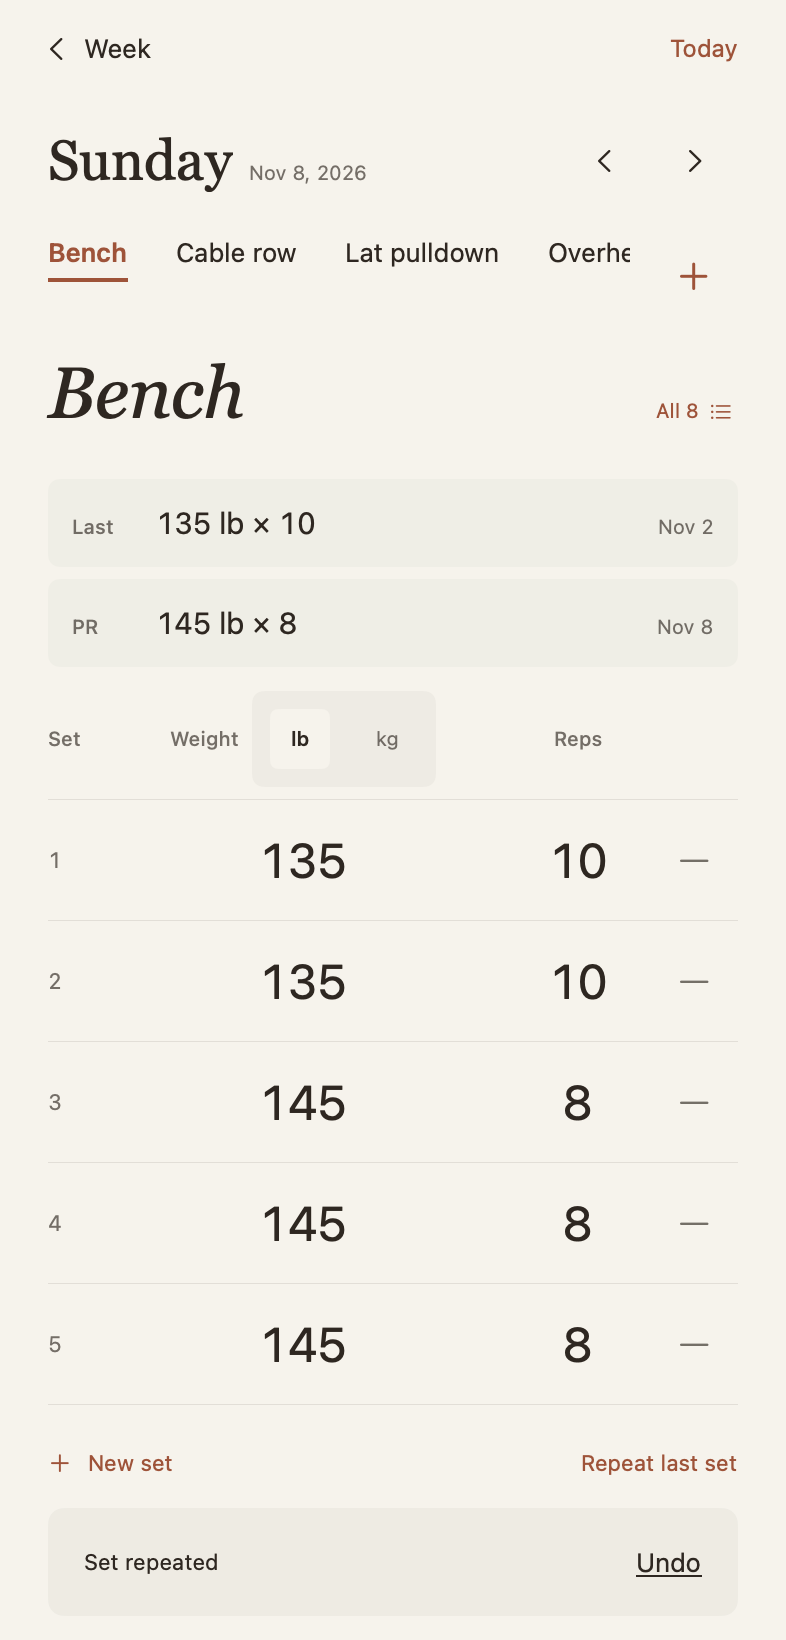
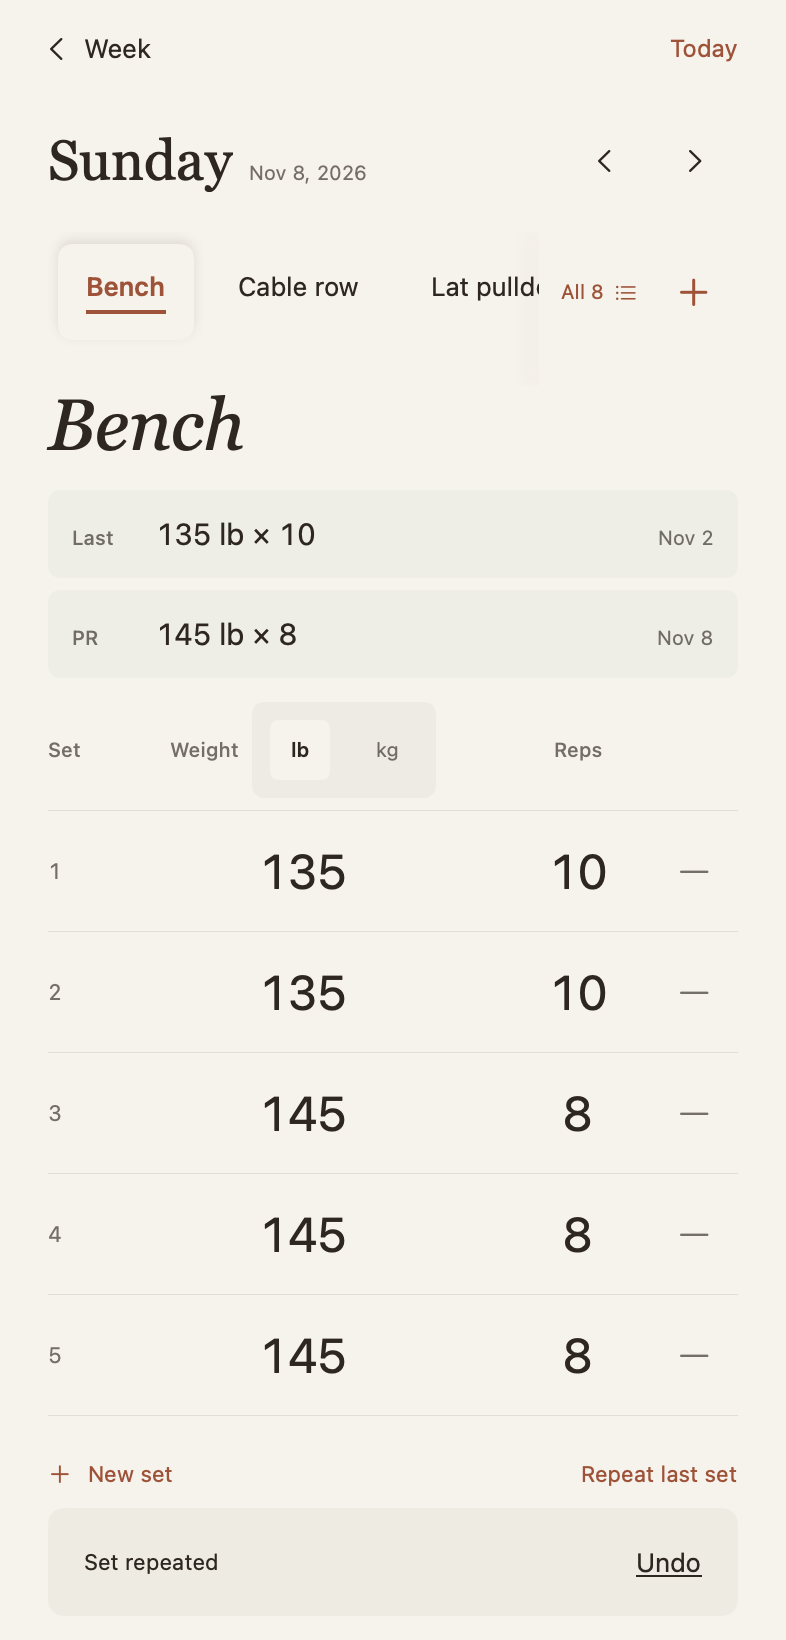
Refine exercise tabs with larger targets and overflow shadows

diff --git a/Sources/SendaNotebook/TrainingExerciseTabs.swift b/Sources/SendaNotebook/TrainingExerciseTabs.swift
@@ -1,0 +1,110 @@
+import SwiftUI
+import SendaDomain
+import SendaLogger
+
+struct TrainingExerciseTabs: View {
+    @Bindable var model: TrainingNotebookModel
+    let day: TrainingDay
+    var add: () -> Void
+    var showAll: () -> Void
+    @State private var visibleTabID: String?
+    @State private var contentFrame: CGRect = .zero
+    @ScaledMetric(relativeTo: .body) private var lineHeight: CGFloat = 22
+    @Environment(\.layoutDirection) private var layoutDirection
+    @Namespace private var viewportSpace
+
+    private var tabHeight: CGFloat { max(48, lineHeight + 22) }
+
+    var body: some View {
+        HStack(spacing: 6) {
+            GeometryReader { viewport in
+                let canOverflow = !model.tabs.isEmpty && contentFrame.width > viewport.size.width + 1
+                let leftOverflow = canOverflow && contentFrame.minX < -1
+                let rightOverflow = canOverflow && contentFrame.maxX > viewport.size.width + 1
+                ScrollView(.horizontal) {
+                    HStack(spacing: 8) {
+                        ForEach(model.tabs) { exercise in
+                            tab(exercise).id(exercise.id)
+                        }
+                    }
+                    .scrollTargetLayout()
+                    .padding(.horizontal, 5).padding(.vertical, 6)
+                    .background {
+                        GeometryReader { content in
+                            let frame = content.frame(in: .named(viewportSpace))
+                            Color.clear
+                                .onAppear { contentFrame = frame }
+                                .onChange(of: frame) { _, value in contentFrame = value }
+                        }
+                    }
+                }
+                .scrollIndicators(.hidden)
+                .scrollPosition(id: $visibleTabID, anchor: .center)
+                .coordinateSpace(name: viewportSpace)
+                .overlay(alignment: .leading) {
+                    if layoutDirection == .leftToRight ? leftOverflow : rightOverflow { edgeShadow(leading: true) }
+                }
+                .overlay(alignment: .trailing) {
+                    if layoutDirection == .leftToRight ? rightOverflow : leftOverflow { edgeShadow(leading: false) }
+                }
+                .accessibilityIdentifier("exercise-tabs")
+            }
+            HStack(spacing: 2) {
+                if model.tabs.count > 1 {
+                    Button(action: showAll) {
+                        HStack(spacing: 5) {
+                            Text("All \(model.tabs.count)").monospacedDigit()
+                            Image(systemName: "list.bullet")
+                        }.font(.caption).fixedSize()
+                            .padding(.horizontal, 4).frame(minWidth: 44, minHeight: tabHeight)
+                            .contentShape(Rectangle())
+                    }
+                    .accessibilityLabel("View all \(model.tabs.count) exercises")
+                    .accessibilityIdentifier("all-exercises")
+                }
+                Button(action: add) {
+                    Image(systemName: "plus").font(.title2).frame(width: 44, height: tabHeight)
+                        .contentShape(Rectangle())
+                }
+                .accessibilityLabel("Add exercise").accessibilityIdentifier("add-exercise")
+            }.foregroundStyle(NotebookStyle.clay)
+        }
+        .frame(height: tabHeight + 12)
+        .onChange(of: day) { _, _ in visibleTabID = model.exercise?.id }
+        .onChange(of: model.exercise?.id) { _, id in visibleTabID = id }
+        .onAppear { visibleTabID = model.exercise?.id }
+    }
+
+    private func tab(_ exercise: Exercise) -> some View {
+        let selected = model.exercise?.id == exercise.id
+        return Button { model.selectExercise(exercise.id) } label: {
+            VStack(spacing: 4) {
+                Text(exercise.name).font(.body.weight(selected ? .semibold : .regular))
+                    .lineLimit(1).frame(maxWidth: 180)
+                Rectangle().fill(selected ? NotebookStyle.clay : .clear).frame(height: 2)
+            }
+            .padding(.horizontal, 14).padding(.vertical, 8)
+            .frame(minWidth: 64, minHeight: tabHeight)
+            .background {
+                if selected {
+                    RoundedRectangle(cornerRadius: 7).fill(NotebookStyle.ivory)
+                        .shadow(color: NotebookStyle.ink.opacity(0.12), radius: 3, x: 0, y: 2)
+                }
+            }
+            .contentShape(Rectangle())
+        }
+        .foregroundStyle(selected ? NotebookStyle.clay : NotebookStyle.ink)
+        .accessibilityLabel(exercise.name)
+        .accessibilityAddTraits(selected ? .isSelected : [])
+        .accessibilityIdentifier("exercise-\(exercise.id)")
+        .contextMenu { Button("Remove from day", role: .destructive) { model.removeExercise(exercise.id) } }
+    }
+
+    private func edgeShadow(leading: Bool) -> some View {
+        let leftEdge = leading == (layoutDirection == .leftToRight)
+        return Rectangle().fill(NotebookStyle.ivory).frame(width: 1)
+            .shadow(color: NotebookStyle.ink.opacity(0.18), radius: 5, x: leftEdge ? 3 : -3, y: 0)
+            .frame(width: 12, alignment: leading ? .leading : .trailing)
+            .clipped().allowsHitTesting(false).accessibilityHidden(true)
+    }
+}

diff --git a/Sources/SendaNotebook/TrainingDayView.swift b/Sources/SendaNotebook/TrainingDayView.swift
@@ -14,8 +14,6 @@ struct TrainingDayView: View {
     @Bindable var model: TrainingNotebookModel
     let day: TrainingDay
     @State private var presentedSheet: TrainingDaySheet?
-    @State private var tabPosition: String?
-    @ScaledMetric(relativeTo: .body) private var tabLineHeight: CGFloat = 22
     @Environment(\.accessibilityReduceMotion) private var reduceMotion
     var body: some View {
         ScrollViewReader { scroll in
@@ -27,44 +25,13 @@ struct TrainingDayView: View {
                         if day == model.today { Text("Today").font(.callout).foregroundStyle(NotebookStyle.clay).fixedSize() }
                     }
                     dateNavigation.padding(.bottom, 2).id("day-header")
-                    HStack(spacing: 10) {
-                        ScrollView(.horizontal) {
-                            LazyHStack(spacing: 24) {
-                                ForEach(model.tabs) { exercise in
-                                    Button { model.selectExercise(exercise.id) } label: {
-                                        VStack(spacing: 5) {
-                                            Text(exercise.name).font(.body.weight(model.exercise?.id == exercise.id ? .semibold : .regular))
-                                                .lineLimit(1).frame(maxWidth: 180)
-                                            Rectangle().fill(model.exercise?.id == exercise.id ? NotebookStyle.clay : .clear).frame(height: 2)
-                                        }.frame(minHeight: 44)
-                                    }.foregroundStyle(model.exercise?.id == exercise.id ? NotebookStyle.clay : NotebookStyle.ink)
-                                        .accessibilityIdentifier("exercise-\(exercise.id)")
-                                        .contextMenu { Button("Remove from day", role: .destructive) { model.removeExercise(exercise.id) } }
-                                        .id(exercise.id)
-                                }
-                            }.scrollTargetLayout()
-                        }.frame(height: max(44, tabLineHeight + 12))
-                            .scrollIndicators(.hidden).scrollPosition(id: $tabPosition, anchor: .center)
-                        Button { if model.finishEditing() { presentedSheet = .picker } } label: { Image(systemName: "plus").font(.title2).frame(width: 44, height: 44) }
-                            .foregroundStyle(NotebookStyle.clay)
-                            .accessibilityLabel("Add exercise").accessibilityIdentifier("add-exercise")
-                    }
+                    TrainingExerciseTabs(model: model, day: day,
+                        add: { if model.finishEditing() { presentedSheet = .picker } },
+                        showAll: { if model.finishEditing() { presentedSheet = .exercises } })
                     if let exercise = model.exercise {
-                        HStack(alignment: .firstTextBaseline, spacing: 12) {
-                            Text(exercise.name).font(NotebookTypography.heading(36, italic: true)).lineLimit(2).minimumScaleFactor(0.7)
-                                .frame(maxWidth: .infinity, alignment: .leading)
-                                .accessibilityIdentifier("entry-exercise")
-                            if model.tabs.count > 1 {
-                                Button { if model.finishEditing() { presentedSheet = .exercises } } label: {
-                                    HStack(spacing: 5) {
-                                        Text("All \(model.tabs.count)").monospacedDigit()
-                                        Image(systemName: "list.bullet")
-                                    }.font(.caption).frame(minWidth: 44, minHeight: 44)
-                                }.foregroundStyle(NotebookStyle.clay)
-                                    .accessibilityLabel("View all \(model.tabs.count) exercises")
-                                    .accessibilityIdentifier("all-exercises")
-                            }
-                        }.padding(.top, 4)
+                        Text(exercise.name).font(NotebookTypography.heading(36, italic: true)).lineLimit(2).minimumScaleFactor(0.7)
+                            .frame(maxWidth: .infinity, alignment: .leading)
+                            .accessibilityIdentifier("entry-exercise").padding(.top, 4)
                         if model.lastReference != nil || model.personalBest != nil { TrainingReferenceBanners(model: model) }
                         TrainingSetRows(model: model).id("\(day.rawValue)/\(exercise.id)")
                         TrainingSaveStatus(model: model).id("\(day.rawValue)/\(exercise.id)")
@@ -117,11 +84,8 @@ struct TrainingDayView: View {
             #endif
             .onChange(of: day) { _, _ in
                 presentedSheet = nil
-                tabPosition = model.exercise?.id
                 if model.revealRowID == nil { scroll.scrollTo("day-top", anchor: .top) }
             }
-            .onChange(of: model.exercise?.id) { _, id in tabPosition = id }
-            .onAppear { tabPosition = model.exercise?.id }
         }.background(NotebookStyle.ivory)
     }
 

diff --git a/Tests/SendaUITests/LoggerUITests.swift b/Tests/SendaUITests/LoggerUITests.swift
@@ -156,6 +156,13 @@ final class LoggerUITests: XCTestCase {
         attach("Grouped local exercise picker", app)
         let customID = String(custom.identifier.dropFirst("picker-".count))
         tap("close-exercise-picker", in: app)
+        let tabs = element("exercise-tabs", in: app)
+        let all = element("all-exercises", in: app)
+        XCTAssertEqual(all.frame.midY, tabs.frame.midY, accuracy: 2)
+        XCTAssertEqual(element("add-exercise", in: app).frame.midY, tabs.frame.midY, accuracy: 2)
+        let benchTab = element("exercise-bench", in: app)
+        XCTAssertGreaterThanOrEqual(benchTab.frame.width, 64)
+        XCTAssertGreaterThanOrEqual(benchTab.frame.height, 48)
         tap("all-exercises", in: app)
         XCTAssertTrue(element("day-exercise-bench", in: app).label.contains("No sets yet"))
         XCTAssertTrue(element("day-exercise-\(customID)", in: app).label.contains("1 set"))
@@ -230,6 +237,10 @@ final class LoggerUITests: XCTestCase {
         XCTAssertEqual(element("day-date", in: app).label, originalDate)
         XCTAssertEqual(element("entry-exercise", in: app).label, "Bench")
         attach("Large text day navigation", app)
+        add("Cable row", id: "cable-row", in: app)
+        tap("all-exercises", in: app)
+        _ = element("day-exercises-title", in: app)
+        attach("Large text All action in the tab row", app)
     }
 
     @MainActor private func launch(extra: [String] = []) -> XCUIApplication {

diff --git a/README.md b/README.md
@@ -13,7 +13,7 @@ The project has no third-party dependencies or generation step.
 ## Notebook flow
 
 - **Week → Day → Exercise.** A Monday–Sunday list shows each day's trained muscle groups and set count. Categories appear once, using only performed sets; opening the day shows the individual exercises and sets. Previous/next controls browse weeks. In the day view, arrows beside the date move to the previous or next calendar day; **‹ Week** returns to that day's week. Each day retains its own exercise tabs, selection and sets. Changing days finishes the current edit, preserving incomplete input without counting it.
-- When a day has multiple exercises, **All N** beside its exercise title opens the full day list. Each row shows its actual logged-set count, or **No sets yet**. Select one to return to its existing sets, or choose **Add exercise** from the list.
+- When a day has multiple exercises, **All N** in the exercise tab row opens the full day list. All and Add stay visible while the tabs scroll. Tabs have larger padded tap areas, a subtle shadow on the selected exercise, and quiet edge shadows wherever more tabs are offscreen. Each list row shows its actual logged-set count, or **No sets yet**. Select one to return to its existing sets, or choose **Add exercise** from the list.
 - Use **+** to browse exercises by muscle group, narrow by equipment, or search across groups. Flat rows show **Added** when already in the day. **Create exercise** accepts a name, muscle group and equipment. Existing unclassified custom exercises remain searchable under Full body / Other.
 - Each set has one weight value and reps. The **lb/kg switch beside Weight** changes the display unit without rounding untouched canonical values. **Last** and **PR** are separate banners. Last is the previous training day's top set; PR ranks performed weight first, then reps. Tap either to open its source day. There is no Common banner.
 - A newly added exercise starts with a blank row. **New set** adds another blank row and focuses Weight, or Reps for bodyweight exercises. No zero-weight batch is prefilled.
